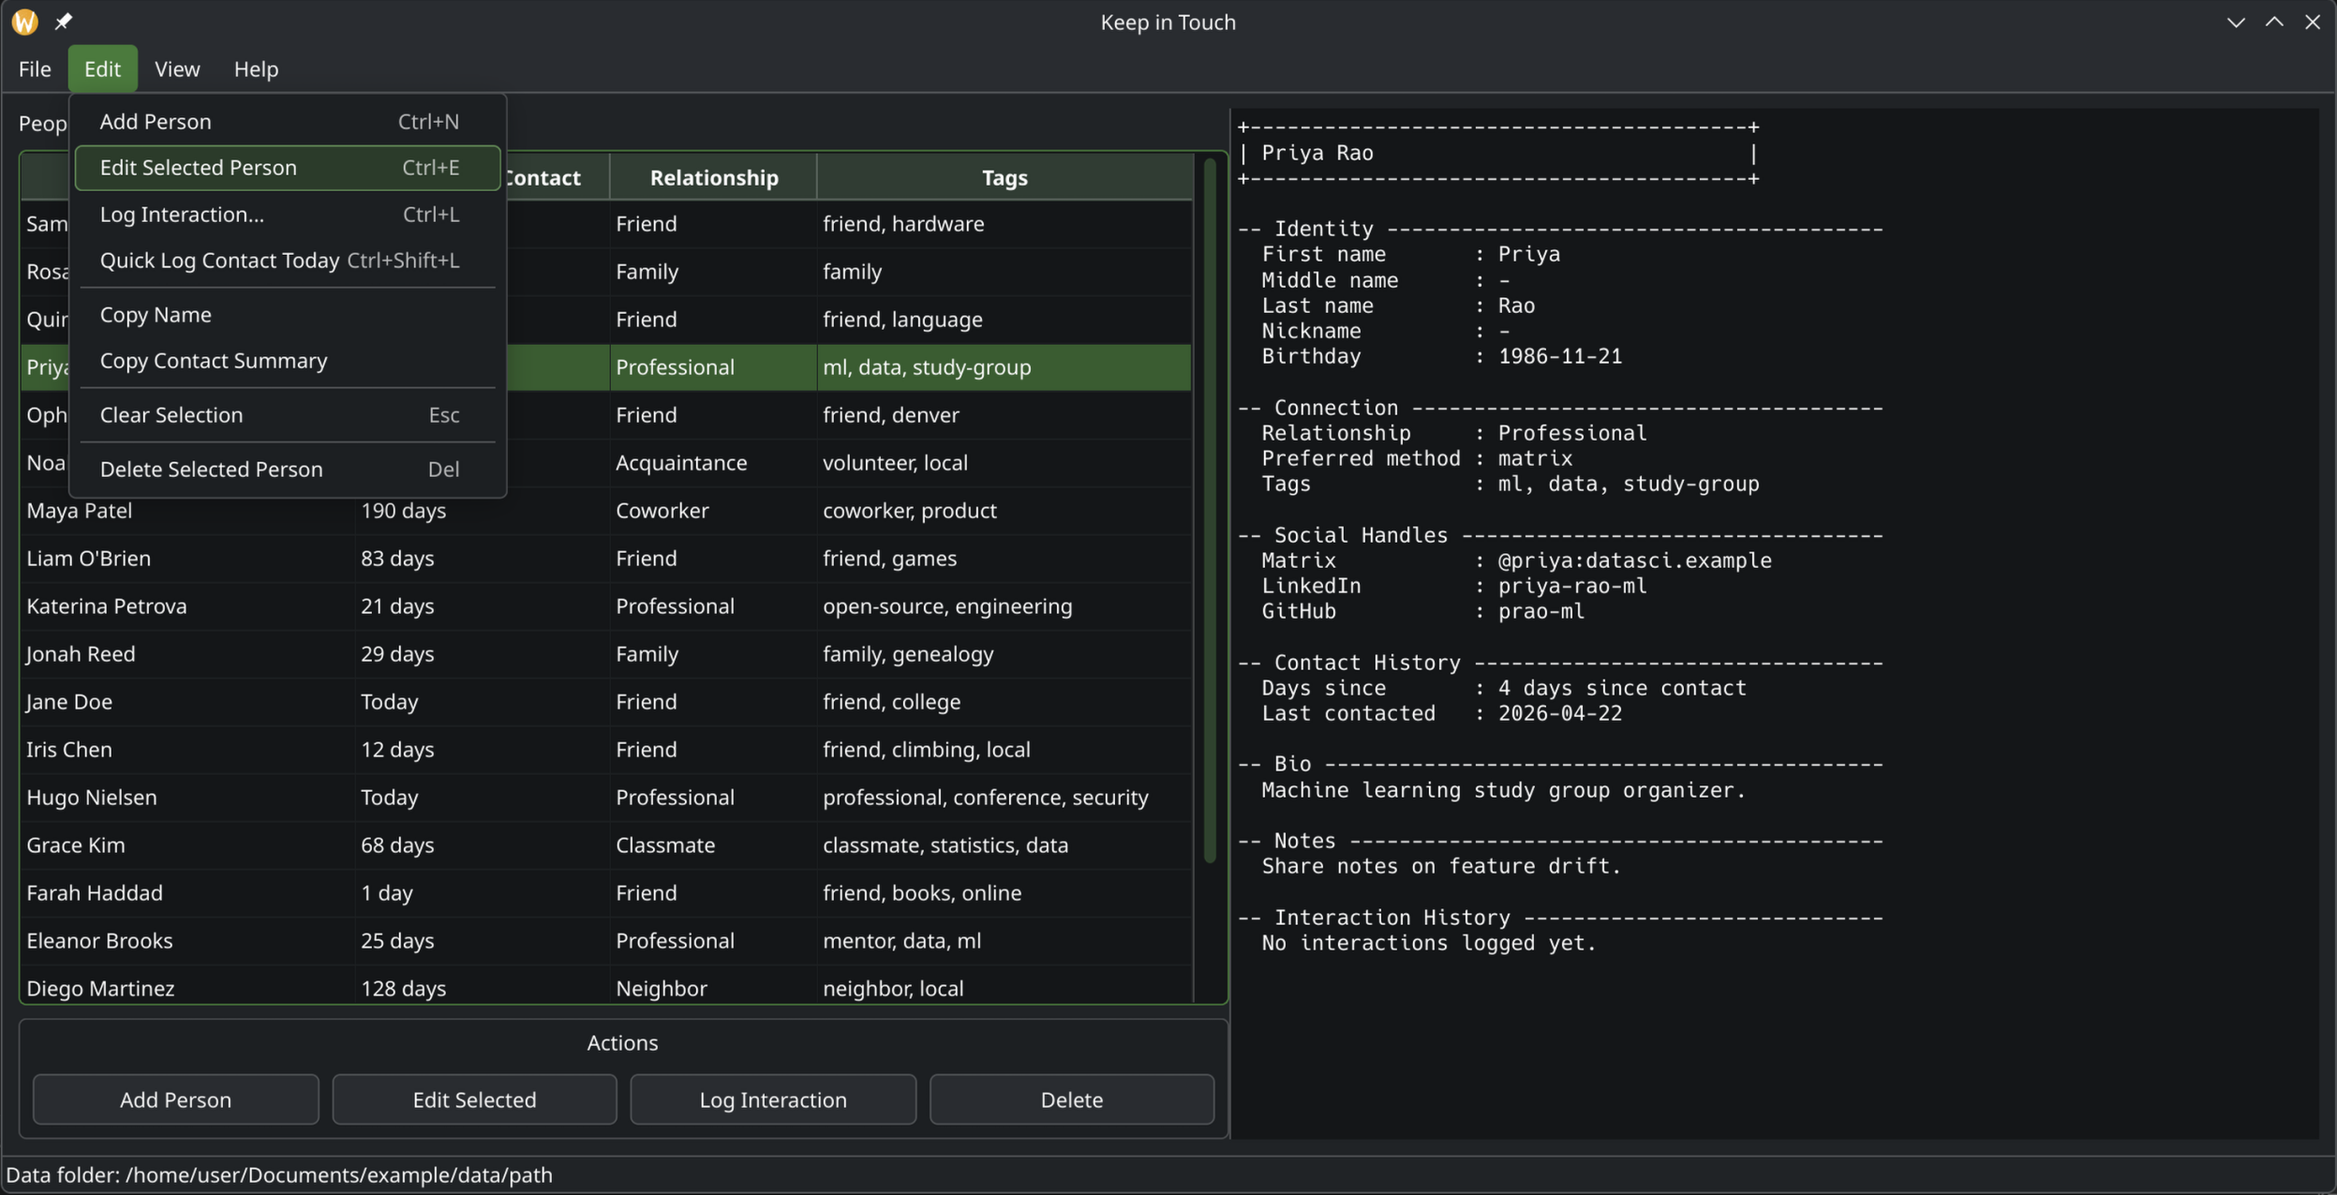
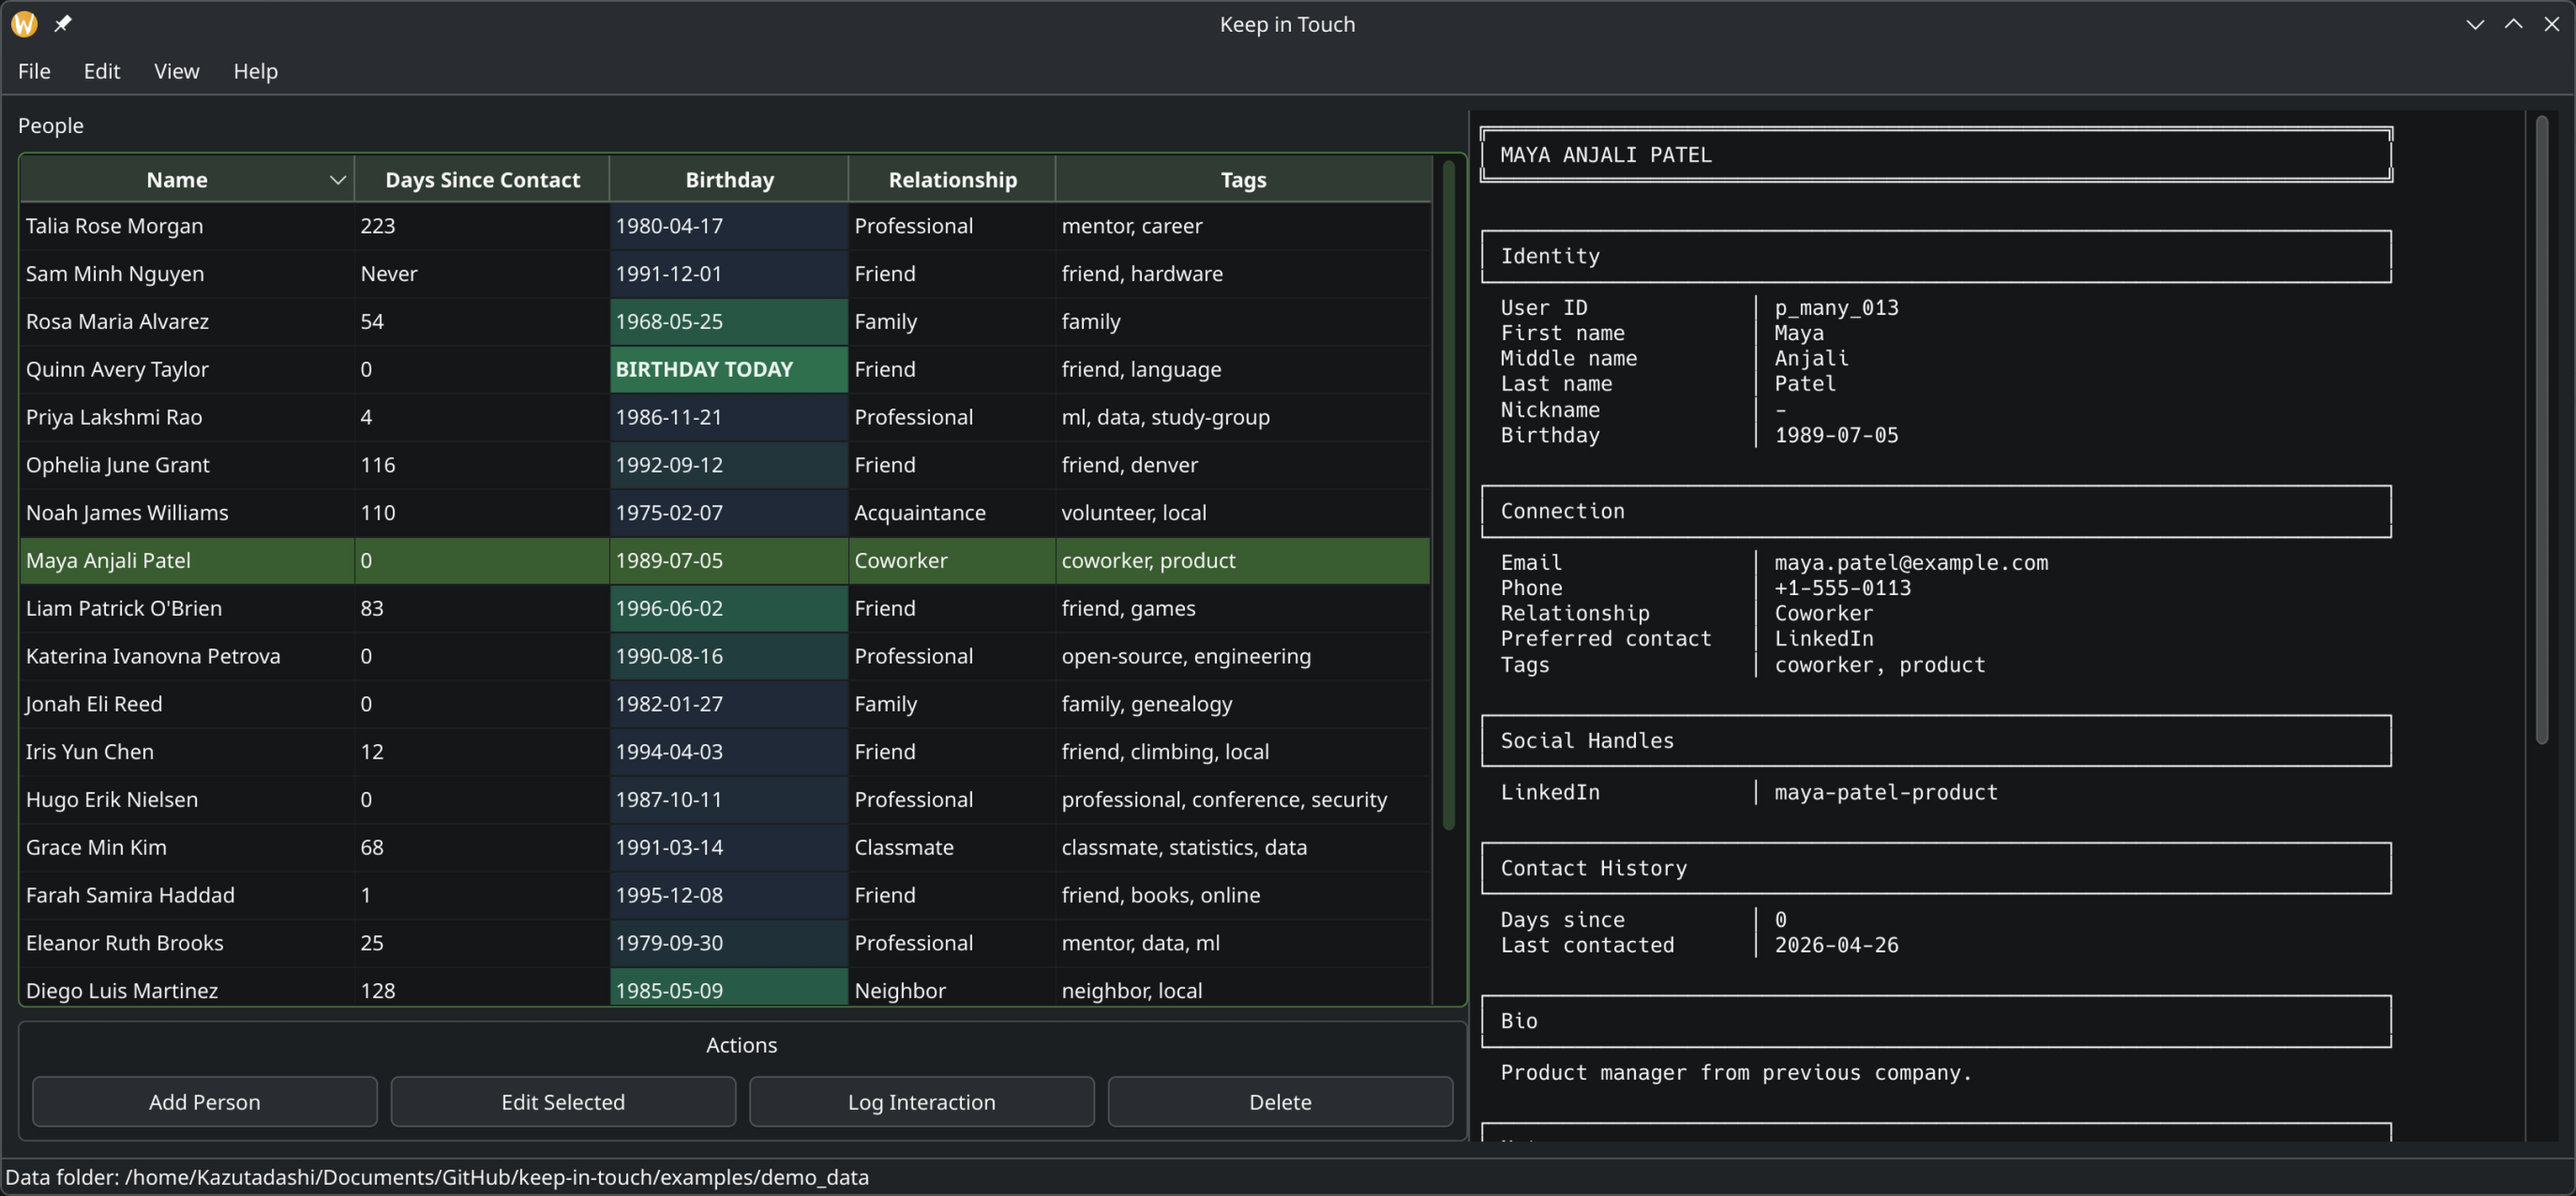
Work on making interface cleaner

diff --git a/keep_in_touch/ui/person_detail_panel.py b/keep_in_touch/ui/person_detail_panel.py
@@ -8,6 +8,7 @@ from PySide6.QtWidgets import QTextEdit
 from keep_in_touch.domain.display import (
     contact_age_text,
     contact_method_label,
+    birthday_text,
     date_text,
     display_name,
     middle_name,
@@ -54,7 +55,7 @@ class PersonDetailPanel(QTextEdit):
             _field("Middle name", middle_name(person)),
             _field("Last name", person.last_name),
             _field("Nickname", person.nickname),
-            _field("Birthday", date_text(person.birthday)),
+            _field("Birthday", birthday_text(person, date.today())),
             "",
             _section("Connection"),
             _field("Email", person.email),
@@ -92,17 +93,27 @@ class PersonDetailPanel(QTextEdit):
 
 
 def _title(text: str) -> str:
-    """Return an ASCII title block."""
+    """Return a text title block."""
 
-    border = "+" + "=" * PANEL_WIDTH + "+"
-    return "\n".join([border, _boxed_line(text.upper()), border])
+    return "\n".join(
+        [
+            _border("╔", "═", "╗"),
+            _boxed_line(text.upper()),
+            _border("╚", "═", "╝"),
+        ]
+    )
 
 
 def _section(text: str) -> str:
-    """Return a prominent ASCII section heading."""
+    """Return a prominent text section heading."""
 
-    border = "+" + "-" * PANEL_WIDTH + "+"
-    return "\n".join([border, _boxed_line(text), border])
+    return "\n".join(
+        [
+            _border("┌", "─", "┐"),
+            _boxed_line(text),
+            _border("└", "─", "┘"),
+        ]
+    )
 
 
 def _subsection(text: str) -> str:
@@ -112,18 +123,17 @@ def _subsection(text: str) -> str:
 
 
 def _interaction_block(interaction: Interaction) -> list[str]:
-    """Return a visually separated ASCII block for one interaction."""
+    """Return an indented readable block for one interaction."""
 
     title = f"{interaction.date.isoformat()} - {interaction.interaction_type or 'interaction'}"
     return [
-        _minor_border(),
-        _boxed_line(title),
-        _minor_border(),
-        _field("Interaction ID", interaction.id),
-        _field("Date", interaction.date.isoformat()),
-        _field("Type", interaction.interaction_type or "interaction"),
-        _field("Summary", interaction.summary),
-        _field("Follow-up", interaction.follow_up_notes),
+        f"  ── {title}",
+        f"     id   │ {interaction.id}",
+        "     summary",
+        *_note_lines(interaction.summary, indent="       "),
+        "",
+        "     follow-up",
+        *_note_lines(interaction.follow_up_notes, indent="       "),
     ]
 
 
@@ -131,7 +141,7 @@ def _field(label: str, value: object) -> str:
     """Return an aligned label/value row."""
 
     text = str(value).strip() if value is not None else ""
-    return f"  {label.upper().ljust(LABEL_WIDTH)} | {text or '-'}"
+    return f"  {label.ljust(LABEL_WIDTH)} │ {text or '-'}"
 
 
 def _block(text: str) -> str:
@@ -159,13 +169,25 @@ def _empty(text: str = "-") -> str:
 
 
 def _boxed_line(text: str) -> str:
-    """Return text padded inside a fixed-width ASCII box."""
+    """Return text padded inside a fixed-width box."""
 
     clipped = text[: PANEL_WIDTH - 2]
-    return f"| {clipped.ljust(PANEL_WIDTH - 2)} |"
+    return f"│ {clipped.ljust(PANEL_WIDTH - 2)} │"
 
 
-def _minor_border() -> str:
-    """Return a lighter fixed-width border for repeated blocks."""
+def _border(left: str, fill: str, right: str) -> str:
+    """Return a fixed-width box border."""
 
-    return "+" + "." * PANEL_WIDTH + "+"
+    return left + fill * PANEL_WIDTH + right
+
+
+def _note_lines(text: str, indent: str) -> list[str]:
+    """Return readable note lines for interaction summary fields."""
+
+    stripped = text.strip()
+    if not stripped:
+        return [f"{indent}-"]
+    return [
+        f"{indent}{line}" if line else indent.rstrip()
+        for line in stripped.splitlines()
+    ]

diff --git a/keep_in_touch/domain/display.py b/keep_in_touch/domain/display.py
@@ -1,6 +1,5 @@
 """Display-oriented helpers for domain models."""
 
-from calendar import month_abbr
 from datetime import date
 
 from keep_in_touch.domain.formulas import days_since_contact
@@ -74,45 +73,30 @@ def days_until_birthday(person: Person, today: date) -> int | None:
 
 
 def birthday_text(person: Person, today: date) -> str:
-    """Return compact birthday text for table display."""
+    """Return birthday text in ISO 8601 date format."""
 
-    days = days_until_birthday(person, today)
-    if days is None:
-        return ""
-    if days == 0:
-        return "Today"
-    if days == 1:
-        return "Tomorrow"
-    if days <= 30:
-        return f"In {days} days"
     birthday = person.birthday
     if birthday is None:
         return ""
-    return f"{month_abbr[birthday.month]} {birthday.day}"
+    return birthday.isoformat()
 
 
 def days_since_contact_text(person: Person, today: date) -> str:
-    """Return a compact days-since-contact value for display."""
+    """Return a numeric days-since-contact value for display."""
 
     days = days_since_contact(person, today)
     if days is None:
         return "Never"
-    if days == 0:
-        return "Today"
-    suffix = "day" if days == 1 else "days"
-    return f"{days} {suffix}"
+    return str(days)
 
 
 def contact_age_text(person: Person, today: date) -> str:
-    """Return a sentence-like contact age value for detail views."""
+    """Return a numeric days-since-contact value for detail views."""
 
     days = days_since_contact(person, today)
     if days is None:
-        return "Never contacted"
-    if days == 0:
-        return "Contacted today"
-    suffix = "day" if days == 1 else "days"
-    return f"{days} {suffix} since contact"
+        return "Never"
+    return str(days)
 
 
 def contact_method_label(value: str, fallback: str = "-") -> str:

diff --git a/tests/test_display.py b/tests/test_display.py
@@ -12,7 +12,7 @@ def test_days_until_birthday_returns_zero_for_today() -> None:
     )
 
     assert days_until_birthday(person, date(2026, 4, 26)) == 0
-    assert birthday_text(person, date(2026, 4, 26)) == "Today"
+    assert birthday_text(person, date(2026, 4, 26)) == "1992-04-26"
 
 
 def test_days_until_birthday_wraps_to_next_year() -> None:
@@ -23,7 +23,7 @@ def test_days_until_birthday_wraps_to_next_year() -> None:
     )
 
     assert days_until_birthday(person, date(2026, 4, 26)) == 250
-    assert birthday_text(person, date(2026, 4, 26)) == "Jan 1"
+    assert birthday_text(person, date(2026, 4, 26)) == "1992-01-01"
 
 
 def test_days_until_birthday_handles_leap_day_on_non_leap_year() -> None:
@@ -34,4 +34,4 @@ def test_days_until_birthday_handles_leap_day_on_non_leap_year() -> None:
     )
 
     assert days_until_birthday(person, date(2026, 2, 28)) == 1
-    assert birthday_text(person, date(2026, 2, 28)) == "Tomorrow"
+    assert birthday_text(person, date(2026, 2, 28)) == "1992-02-29"

diff --git a/keep_in_touch/ui/main_window.py b/keep_in_touch/ui/main_window.py
@@ -23,6 +23,7 @@ from PySide6.QtWidgets import (
     QWidget,
 )
 
+from keep_in_touch import __author__, __version__
 from keep_in_touch.app.app_config import AppConfig
 from keep_in_touch.domain.date_utils import today_local
 from keep_in_touch.domain.display import (
@@ -563,7 +564,9 @@ class MainWindow(QMainWindow):
             (
                 "Keep in Touch is a local-first personal relationship tracking "
                 "application. Data is stored as portable text files in a folder "
-                "you choose."
+                "you choose.\n\n"
+                f"Version: {__version__}\n"
+                f"Author: {__author__}"
             ),
         )
 

diff --git a/keep_in_touch/ui/people_table.py b/keep_in_touch/ui/people_table.py
@@ -190,7 +190,7 @@ class PeopleTable(QTableWidget):
         ),
         PeopleTableColumn(
             "Birthday",
-            145,
+            150,
             _birthday_cell,
             _birthday_sort_value,
             _decorate_birthday_cell,

diff --git a/keep_in_touch/__init__.py b/keep_in_touch/__init__.py
@@ -1,3 +1,4 @@
 """Keep in Touch package."""
 
-__version__ = "0.1.0"
+__author__ = "Kazutadashi"
+__version__ = "2026.4.26.1648"
